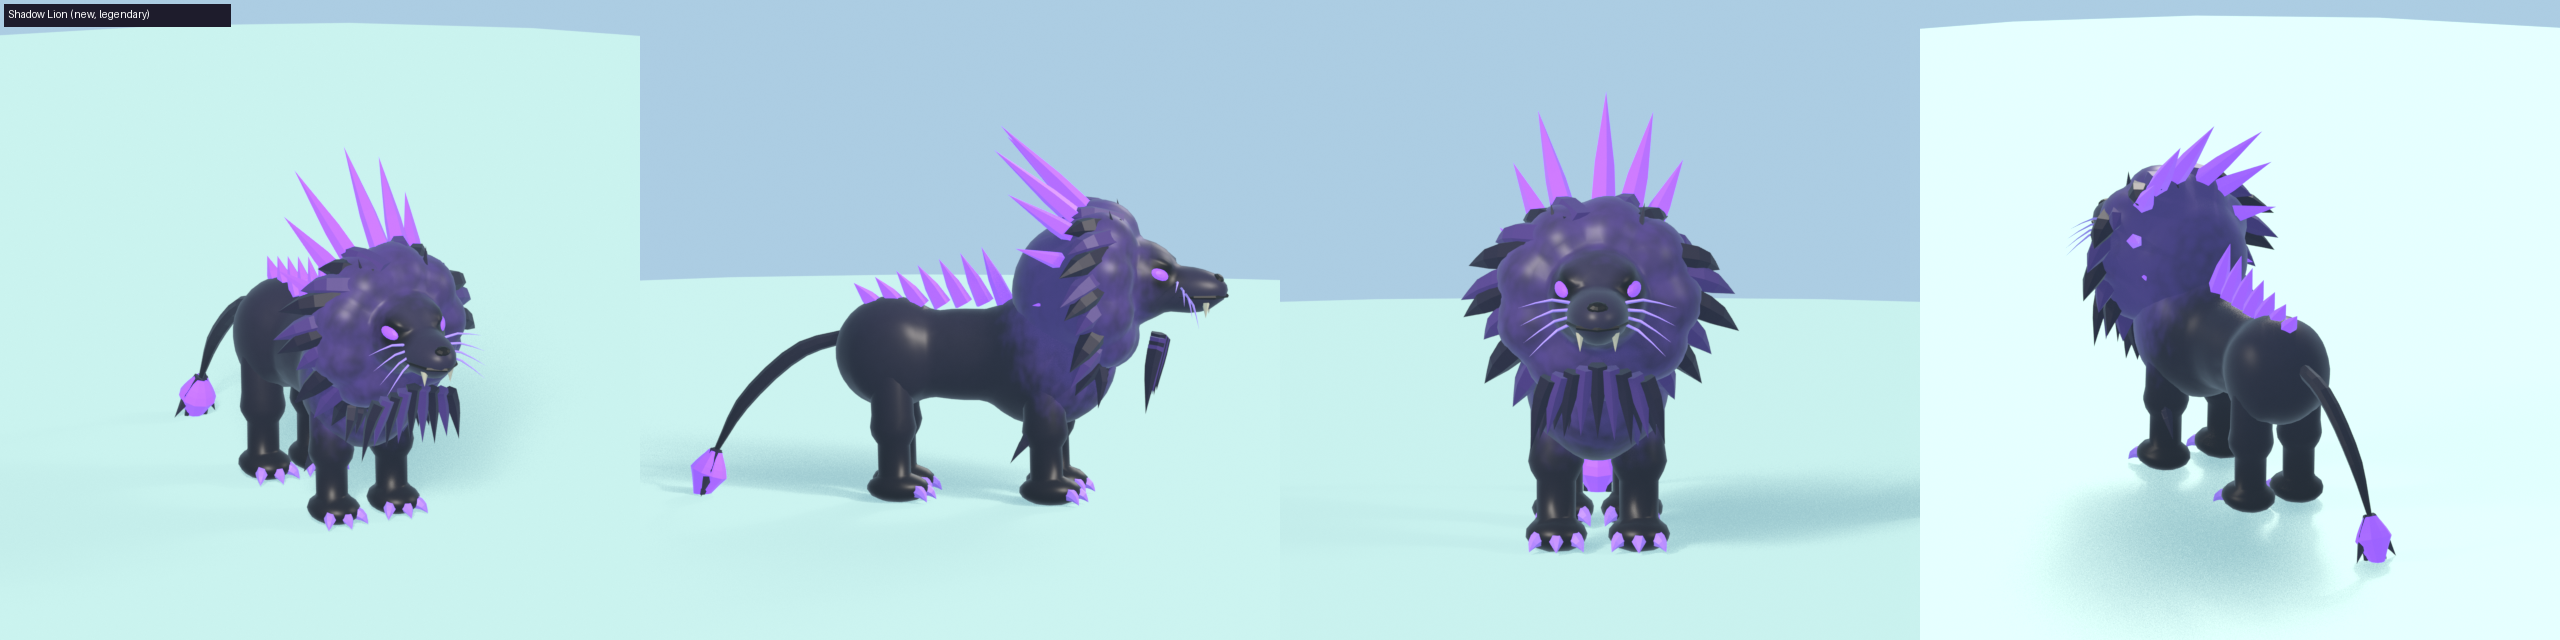
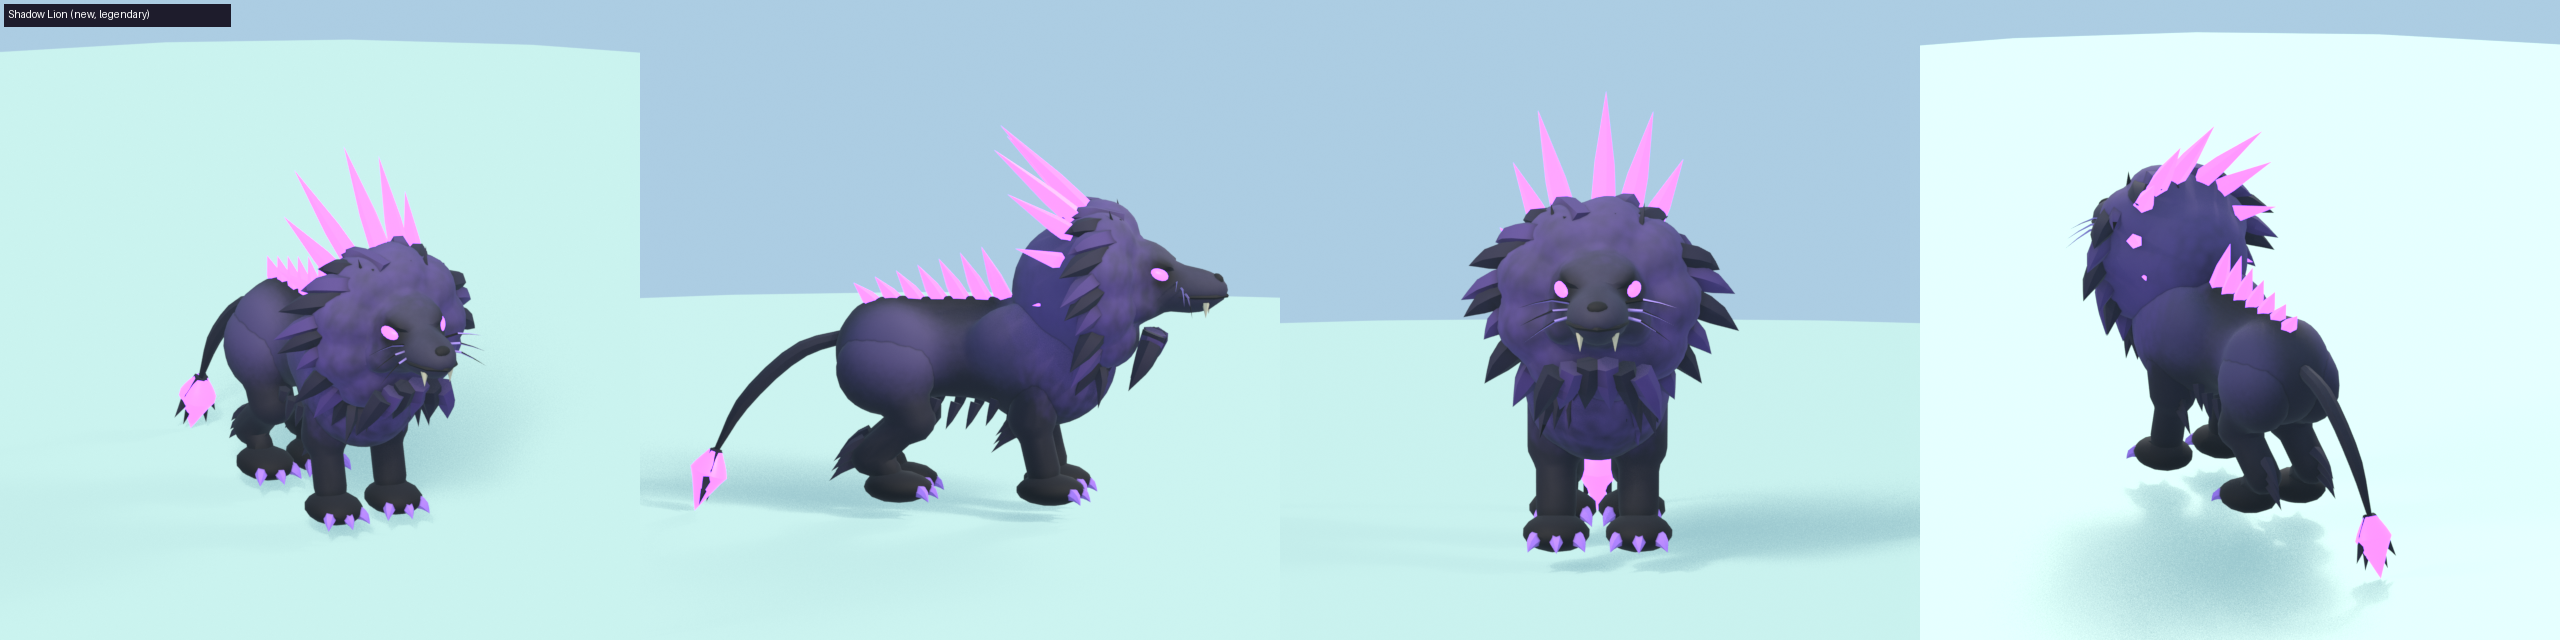
STATION-033: rework the lion models (cat legs, shoulders, cheeks, fur markings, mane, tufts) and fix atlas crowding

diff --git a/tools/blender/stations/assets/animals.py b/tools/blender/stations/assets/animals.py
@@ -62,6 +62,49 @@ def leg(skin, x, y, top, r, r2, foot_r, claw, name, foot_rgb=None, toes=3):
     return [ob, *claws]
 
 
+def claws_at(foot, foot_r, claw, toes=3):
+    out = []
+    for a in (-36, 0, 36) if toes == 3 else (-48, -16, 16, 48):
+        d = k.outward(a, 0)
+        base = foot + d * foot_r * 0.72
+        pts = [base, base + d * foot_r * 0.45 - Vector((0, 0, 0.05)), base + d * foot_r * 0.7 - Vector((0, 0, foot_r * 0.42))]
+        out.append(k.horn(pts, [foot_r * 0.28, foot_r * 0.2, 0.0], claw, n=6, steps=5, name="claw"))
+    return out
+
+
+def cat_leg(skin, x, y, top, r, foot_r, claw, name, front, foot_rgb=None):
+    """A big cat's leg. Front: a shoulder blade, the elbow behind it, a tapering forearm and a broad
+    paw. Back: a heavy thigh, the knee forward, the hock pointing back, a slim shin and the paw."""
+    s = 1 if x > 0 else -1
+    foot = Vector((x, y - 0.12, foot_r * 0.5))
+    if front:
+        elbow = Vector((x, y + 0.14, top * 0.6))
+        wrist = Vector((x, y - 0.02, foot_r * 1.25))
+        parts = [
+            (Vector((x, y - 0.02, top - 0.05)), r * 1.35, (0.8, 1.35, 1.0)),
+            ("capsule", Vector((x, y, top - 0.1)), elbow, r * 1.12),
+            (elbow, r * 1.02, (0.9, 1.0, 0.9)),
+            ("capsule", elbow, wrist, r * 0.78),
+            (wrist, r * 0.7, (1.0, 1.0, 0.9)),
+        ]
+    else:
+        knee = Vector((x, y - 0.32, top * 0.58))
+        hock = Vector((x, y + 0.3, top * 0.3))
+        parts = [
+            (Vector((x, y + 0.05, top - 0.15)), r * 1.75, (0.82, 1.35, 1.2)),  # the thigh
+            ("capsule", Vector((x, y, top - 0.15)), knee, r * 1.1),
+            (knee, r * 0.95, (0.95, 1.0, 0.9)),
+            ("capsule", knee, hock, r * 0.82),
+            (hock, r * 0.66, (1.0, 1.0, 1.0)),
+            ("capsule", hock, Vector((x, y + 0.02, foot_r * 1.1)), r * 0.58),
+        ]
+    parts.append((tuple(foot), foot_r, (0.98, 1.2, 0.55)))
+    ob = k.fuse(parts, skin, tris=600, soft=0.24, name=name)
+    if foot_rgb:
+        k.zone(skin, foot_rgb, (x, y - 0.1, 0.1), (foot_r * 1.6, foot_r * 1.8, foot_r * 0.8), soft=0.5)
+    return [ob, *claws_at(foot, foot_r, claw)]
+
+
 def eyes(skull, skin, hc, theta, phi, r, iris, socket, glowing):
     """Slanted eyes in dark sockets. Returns (baked parts, glowing parts)."""
     parts, glows = [], []
@@ -89,10 +132,11 @@ def predator(c):
             ((0, L, cz + 0.05), hr, (0.86, 1.0, 0.98)),
             *k.pair((cr * 0.5, -0.05, cz + 0.05), cr * 0.66, (0.55, 1.0, 1.12)),
             *k.pair((hr * 0.5, L, cz), hr * 0.7, (0.55, 1.0, 1.12)),
+            *c.get("torso_extra", []),
         ],
         skin,
-        tris=1900,
-        soft=0.22,
+        tris=c.get("torso_tris", 1900),
+        soft=c.get("torso_soft", 0.22),
         name="torso",
     )
     fx, bx = cr * 0.5, hr * 0.5
@@ -135,10 +179,21 @@ def predator(c):
     groups = {
         "body": [torso],
         "head": [skull, *face],
-        "leg_fl": leg(skin, fx, 0, cz, lr, lr2, fr, claw, "leg_fl", c.get("foot_rgb")),
-        "leg_fr": leg(skin, -fx, 0, cz, lr, lr2, fr, claw, "leg_fr", c.get("foot_rgb")),
-        "leg_bl": leg(skin, bx, L, cz, lr, lr2, fr, claw, "leg_bl", c.get("foot_rgb")),
-        "leg_br": leg(skin, -bx, L, cz, lr, lr2, fr, claw, "leg_br", c.get("foot_rgb")),
+        **(
+            {
+                "leg_fl": cat_leg(skin, fx, 0, cz, lr, fr, claw, "leg_fl", True, c.get("foot_rgb")),
+                "leg_fr": cat_leg(skin, -fx, 0, cz, lr, fr, claw, "leg_fr", True, c.get("foot_rgb")),
+                "leg_bl": cat_leg(skin, bx, L, cz, lr, fr, claw, "leg_bl", False, c.get("foot_rgb")),
+                "leg_br": cat_leg(skin, -bx, L, cz, lr, fr, claw, "leg_br", False, c.get("foot_rgb")),
+            }
+            if c.get("cat")
+            else {
+                "leg_fl": leg(skin, fx, 0, cz, lr, lr2, fr, claw, "leg_fl", c.get("foot_rgb")),
+                "leg_fr": leg(skin, -fx, 0, cz, lr, lr2, fr, claw, "leg_fr", c.get("foot_rgb")),
+                "leg_bl": leg(skin, bx, L, cz, lr, lr2, fr, claw, "leg_bl", c.get("foot_rgb")),
+                "leg_br": leg(skin, -bx, L, cz, lr, lr2, fr, claw, "leg_br", c.get("foot_rgb")),
+            }
+        ),
         "tail": [tail],
     }
     if glows:
@@ -230,12 +285,21 @@ def cheetah(variant=False):
 
 # Lion ----------------------------------------------------------------------------------------------
 
-LION = dict(chest_z=2.0, chest_r=0.96, waist_r=0.7, hip_r=0.8, len=2.15, leg_r=0.3, foot_r=0.38, head_r=0.62, neck=0.55, head_up=0.72, neck_r=0.5, snout=0.5, muzzle=1.25, ears="round", tail_len=2.1, tail_r=0.12)
+LION = dict(chest_z=2.0, chest_r=0.96, waist_r=0.66, hip_r=0.8, len=2.15, leg_r=0.3, foot_r=0.4, head_r=0.62, neck=0.55, head_up=0.72, neck_r=0.5, snout=0.5, muzzle=1.25, ears="round", tail_len=2.1, tail_r=0.12, cat=True, torso_tris=2600, torso_soft=0.34,
+            torso_extra=[*k.pair((0.5, 0.35, 2.3), 0.5, (0.65, 1.3, 1.0)), ((0, 1.1, 2.62), 0.34, (0.7, 4.0, 0.7))])  # shoulder blades, a ridge of spine
 FLAME = (255, 140, 24)
 
 
+def lion_head(c, hy, hz):
+    """Cheek masses and a raised nose bridge, so the face is broad and square, not a ball."""
+    extra = list(c.get("head_extra", []))
+    extra += k.pair((0.4, hy - 0.08, hz - 0.3), 0.3, (0.75, 1.0, 0.8))
+    extra.append(("capsule", (0, hy - 0.3, hz + 0.2), (0, hy - 0.85, hz - 0.02), 0.17))
+    c["head_extra"] = extra
+
+
 def lion_fur(c, groups, skull, hc, coat, mane=None, whisker=(236, 226, 200), seed=3):
-    """The lion's small detail: whiskers, ear tufts, a fringe of chest and elbow tufts,
+    """The lion's small detail: whiskers, ear tufts, a fringe of chest tufts,
     a tufted tail tip and, with `mane` (two colours), locks clumped out of the ruff and a beard."""
     rng = random.Random(seed)
     R, L = c["head_r"], c["len"]
@@ -244,16 +308,24 @@ def lion_fur(c, groups, skull, hc, coat, mane=None, whisker=(236, 226, 200), see
     head, body = groups["head"], groups["body"]
     tip = hc + Vector((0, -R * 0.75 - c["snout"], -R * 0.2))
     for side in (-1, 1):
-        for i in range(4):  # whiskers fanned out of the muzzle
+        for i in range(3):  # whiskers fanned out of the muzzle
             b = Vector((side * R * 0.3, tip.y + R * 0.55 - i * 0.04, tip.z + 0.1 - i * 0.05))
             d = Vector((side * 1.0, -0.15 - i * 0.12, 0.12 - i * 0.2)).normalized()
             head.append(k.horn([b, b + d * 0.35 + Vector((0, 0, 0.04)), b + d * 0.75 + Vector((0, 0.05, -0.1))], [0.022, 0.016, 0.0], white, n=4, steps=4, name="whisker"))
         ear = Vector((side * R * 0.72, hc.y + R * 0.3, hc.z + R * 0.72))
         head.append(k.horn([ear + Vector((0, 0, 0.1)), ear + Vector((side * 0.05, 0.04, 0.35)), ear + Vector((side * 0.1, 0.1, 0.62))], [0.07, 0.05, 0.0], tuft, n=5, steps=4, name="eartuft"))
-        for j in range(5):  # a tuft behind each elbow and down the throat
-            ex = side * (cr * 0.5 + 0.1)
-            b = Vector((ex, -0.15 + j * 0.05, cz - 0.55 - j * 0.1))
-            body.append(k.horn([b, b + Vector((side * 0.05, 0.2, -0.2)), b + Vector((side * 0.08, 0.38, -0.46))], [0.1, 0.07, 0.0], tuft, n=5, steps=4, name="elbow"))
+    fx, bx = cr * 0.5, c["hip_r"] * 0.5
+    for side in (-1, 1):
+        for j in range(3):  # fur hanging behind each elbow and hock breaks the leg's outline
+            e = Vector((side * fx, 0.2 + j * 0.03, cz - 0.7 - j * 0.12))
+            groups["leg_fl" if side > 0 else "leg_fr"].append(k.horn([e, e + Vector((side * 0.04, 0.22, -0.12)), e + Vector((side * 0.06, 0.45, -0.34))], [0.1, 0.07, 0.0], tuft, n=5, steps=3, name="elbow"))
+            h = Vector((side * bx, L + 0.35 + j * 0.03, cz - 1.15 - j * 0.14))
+            groups["leg_bl" if side > 0 else "leg_br"].append(k.horn([h, h + Vector((side * 0.04, 0.22, -0.1)), h + Vector((side * 0.05, 0.44, -0.3))], [0.1, 0.07, 0.0], tuft, n=5, steps=3, name="hock"))
+    for j in range(8):  # a fringe along the belly
+        y = 0.1 + j * 0.28
+        for side in (-1, 1):
+            b = Vector((side * (0.42 - abs(j - 3.5) * 0.03), y, cz - 0.62 + abs(j - 3.5) * 0.05))
+            body.append(k.horn([b, b + Vector((side * 0.02, 0.06, -0.18)), b + Vector((side * 0.03, 0.14, -0.38))], [0.09, 0.07, 0.0], tuft, n=5, steps=3, name="belly"))
     for j in range(9):
         x = (j - 4) * 0.13
         b = Vector((x, -cr * 0.74 - 0.06, cz + 0.38 - abs(j - 4) * 0.08))
@@ -272,10 +344,31 @@ def lion_fur(c, groups, skull, hc, coat, mane=None, whisker=(236, 226, 200), see
             d = Vector((math.cos(a) * 0.85, 0.5, math.sin(a) * 0.6 - 0.35)).normalized()
             n = rng.uniform(0.5, 0.85)
             head.append(k.horn([base - d * 0.25, base + d * n * 0.5 + Vector((0, 0, -0.06)), base + d * n + Vector((0, 0.05, -0.18))], [0.2, 0.17, 0.0], tones[i % 2], n=6, steps=5, name="lock"))
-        for i in range(9):
-            x = (i - 4) * 0.14
-            base = hc + Vector((x, -0.35, -0.75 - abs(i - 4) * 0.04))
-            head.append(k.horn([base, base + Vector((x * 0.2, 0.05, -0.3)), base + Vector((x * 0.4, 0.1, -0.7 - rng.uniform(0, 0.2)))], [0.12, 0.1, 0.0], tones[i % 2], n=5, steps=5, name="beard"))
+        for i in range(6):
+            x = (i - 2.5) * 0.19
+            base = hc + Vector((x, -0.3, -0.72 - abs(i - 2.5) * 0.05))
+            head.append(k.horn([base, base + Vector((x * 0.3, 0.12, -0.28)), base + Vector((x * 0.55, 0.3, -0.52 - rng.uniform(0, 0.12)))], [0.17, 0.14, 0.0], tones[i % 2], n=6, steps=5, name="beard"))
+    # Flat-coloured hair needs only a few texels: without this every lock and tuft takes an island of
+    # the one atlas and the body's texture shrinks to mush.
+    hair = ("whisker", "eartuft", "elbow", "hock", "belly", "chest", "lock", "beard")
+    for part in groups.values():
+        k.texel([ob for ob in part if ob.name.startswith(hair)], 0.2)
+
+
+def lion_coat(c, hy, hz, belly, spine, hi, bridge, spots, paw):
+    """Fur markings painted on the fused bodies: a pale belly and chest, a darker spine, lighter
+    shoulders and haunches that read as muscle, a dark nose bridge and whisker spots."""
+    m = c["skin"]
+    k.zone(m, belly, (0, 1.0, 1.3), (0.75, 1.9, 0.6), soft=0.5, jag=0.12, jag_scale=9)
+    k.zone(m, belly, (0, -0.55, 1.75), (0.6, 0.65, 0.65), soft=0.5, jag=0.12, jag_scale=9)
+    k.zone(m, spine, (0, 1.0, 2.95), (0.32, 2.1, 0.3), soft=0.6, jag=0.15, jag_scale=8)
+    for side in (-1, 1):
+        k.zone(m, hi, (side * 0.62, 0.3, 2.4), (0.35, 0.8, 0.6), soft=0.5, jag=0.1, jag_scale=8)  # shoulder
+        k.zone(m, hi, (side * 0.6, 2.05, 2.25), (0.4, 0.75, 0.65), soft=0.5, jag=0.1, jag_scale=8)  # haunch
+        for i, (dy, dz) in enumerate(((0.62, 0.02), (0.7, -0.07), (0.78, -0.16), (0.6, -0.12))):  # whisker spots
+            k.zone(m, spots, (side * (0.15 + i * 0.03), hy - dy, hz + dz - 0.1), (0.04, 0.04, 0.04), soft=0.3)
+    k.zone(m, bridge, (0, hy - 0.62, hz + 0.04), (0.13, 0.5, 0.14), soft=0.6)
+    c["foot_rgb"] = paw
 
 
 def lion(variant=False):
@@ -283,11 +376,14 @@ def lion(variant=False):
     hy, hz = -0.96 * 0.72 - 0.55, 2.0 + 0.96 * 0.42 + 0.72  # the head's middle
     if not variant:  # the mane: a ruff of big locks behind the face, part of the head
         c["head_extra"] = [((math.cos(a) * 0.72, hy + 0.5, hz - 0.1 + math.sin(a) * 0.72), 0.5, (1.0, 1.15, 1.0)) for a in [i / 9 * math.tau for i in range(9)]] + [((0, hy + 0.85, hz - 0.2), 0.95, (1.0, 0.9, 1.05))]
-        c["skin"] = k.paint("li_tawny", [(0, (150, 110, 62)), (0.5, (196, 152, 86)), (1, (182, 140, 82))], 0, 3.8, rest=True, grain=(0.1, 8))
+        c["skin"] = k.paint("li_tawny", [(0, (150, 110, 62)), (0.5, (196, 152, 86)), (1, (182, 140, 82))], 0, 3.8, rest=True, grain=(0.18, 15))
         c.update(iris=(240, 176, 36), socket=(70, 48, 30))
+        lion_coat(c, hy, hz, (232, 206, 158), (140, 100, 54), (216, 172, 102), (122, 86, 52), (74, 48, 30), (112, 82, 50))
     else:  # Sun Lion: pale gold, a mane of flames, burning eyes and tail
-        c["skin"] = k.paint("li_sun", [(0, (206, 170, 110)), (1, (250, 236, 196))], 0, 3.8, rest=True, grain=(0.08, 8))
+        c["skin"] = k.paint("li_sun", [(0, (206, 160, 92)), (1, (246, 218, 150))], 0, 3.8, rest=True, grain=(0.12, 15))
         c.update(iris=FLAME, socket=(120, 80, 40), glow_eyes=True, claw=(255, 170, 60))
+        lion_coat(c, hy, hz, (240, 216, 160), (214, 164, 90), (252, 232, 176), (190, 146, 92), (140, 94, 52), (206, 160, 92))
+    lion_head(c, hy, hz)
     groups, torso, skull, hc = predator(c)
     if variant:
         rng, glow = random.Random(5), k.glow(FLAME)
@@ -321,8 +417,10 @@ def shadow_lion(variant=True):
     c = dict(LION)
     hy, hz = -0.96 * 0.72 - 0.55, 2.0 + 0.96 * 0.42 + 0.72
     c["head_extra"] = [((math.cos(a) * 0.72, hy + 0.5, hz - 0.1 + math.sin(a) * 0.72), 0.5, (1.0, 1.15, 1.0)) for a in [i / 9 * math.tau for i in range(9)]] + [((0, hy + 0.85, hz - 0.2), 0.95, (1.0, 0.9, 1.05))]
-    c["skin"] = k.paint("li_shadow", [(0, (18, 16, 26)), (0.6, (40, 36, 56)), (1, (60, 52, 82))], 0, 3.8, rest=True, grain=(0.1, 8))
+    c["skin"] = k.paint("li_shadow", [(0, (18, 16, 26)), (0.6, (40, 36, 56)), (1, (60, 52, 82))], 0, 3.8, rest=True, grain=(0.16, 15))
     c.update(iris=SHADOW, socket=(8, 6, 14), glow_eyes=True, claw=(190, 130, 255))
+    lion_coat(c, hy, hz, (30, 26, 46), (10, 8, 18), (78, 62, 112), (12, 10, 20), (150, 110, 230), (10, 8, 16))
+    lion_head(c, hy, hz)
     groups, torso, skull, hc = predator(c)
     k.zone(c["skin"], (92, 66, 140), (0, hy + 0.75, hz - 0.15), (1.5, 0.95, 1.6), soft=0.3, jag=0.2)  # the mane glints violet
     rng, glow = random.Random(11), k.glow(SHADOW)
@@ -619,7 +717,7 @@ ASSETS = [
     asset("creature_jackal_pharaoh", jackal, True, 1.55, {"head_glow": (60, 230, 220)}, "Pharaoh Jackal (legendary): black with gold bands; eyes and brow gem are Neon."),
     asset("creature_cheetah", cheetah, False, 1.4, {}, "Cheetah: spotted sprinter."),
     asset("creature_cheetah_lightning", cheetah, True, 1.75, {"head_glow": BOLT, "body_glow": BOLT, "tail_glow": BOLT}, "Lightning Cheetah (mythic): storm coat, Neon bolts."),
-    asset("creature_lion", lion, False, 1.7, {}, "Lion: heavy, maned."),
+    asset("creature_lion", lion, False, 1.7, {}, "Lion: heavy, maned.", 12500),
     asset("creature_lion_sun", lion, True, 2.1, {"head_glow": FLAME, "tail_glow": FLAME}, "Sun Lion (mythic): a mane and tail of Neon flame.", 12500),
     asset("creature_lion_shadow", shadow_lion, True, 1.9, {"head_glow": SHADOW, "tail_glow": SHADOW}, "Shadow Lion (legendary): coal black, violet shards raked back from the mane and down the spine.", 12500),
     asset("creature_meerkat", meerkat, False, 1.0, {}, "Meerkat: small and quick."),
